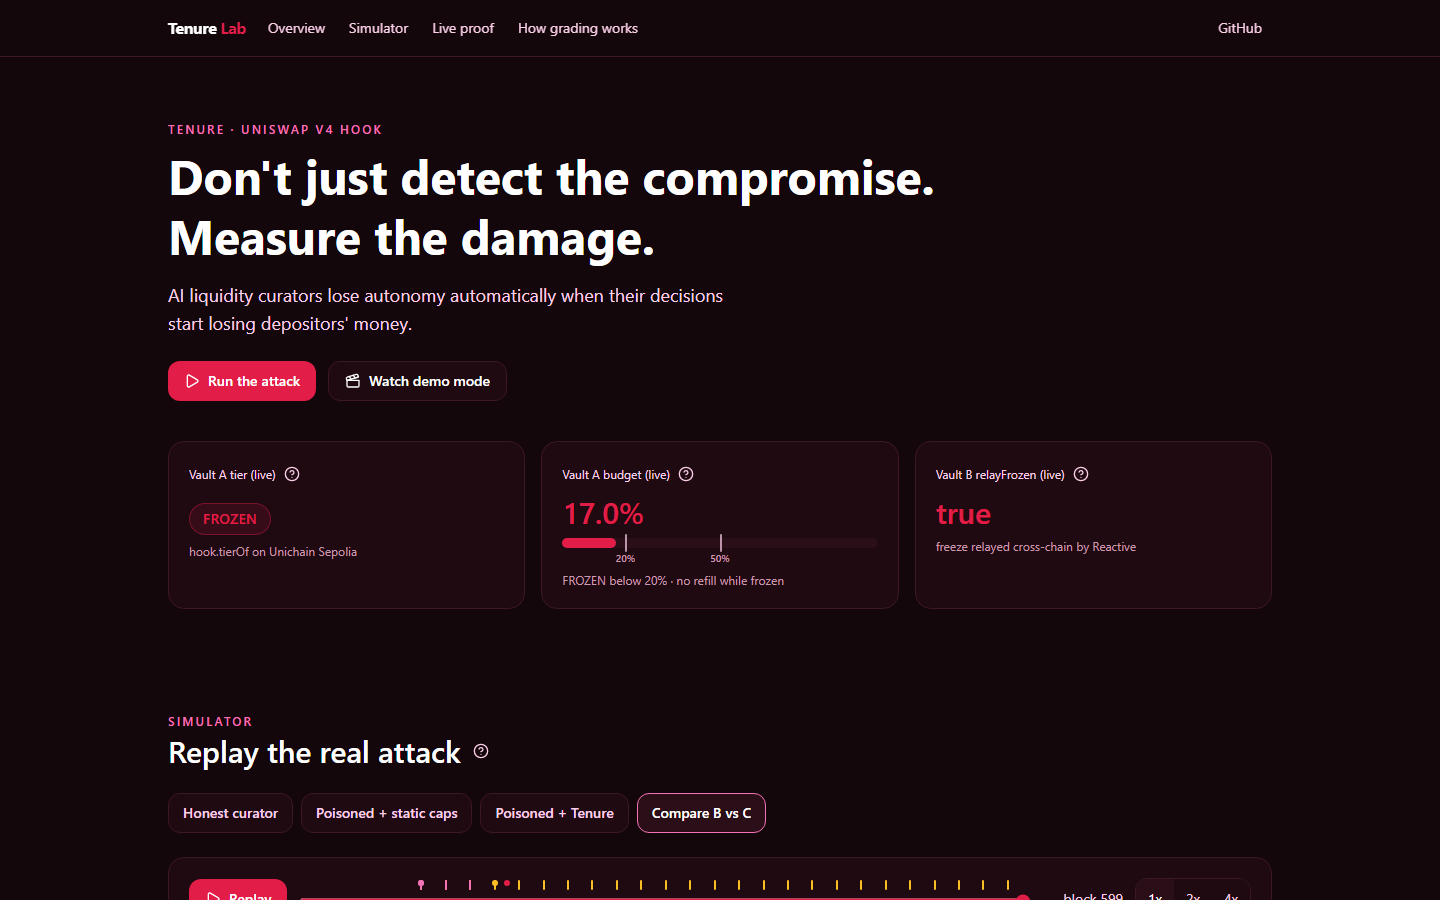
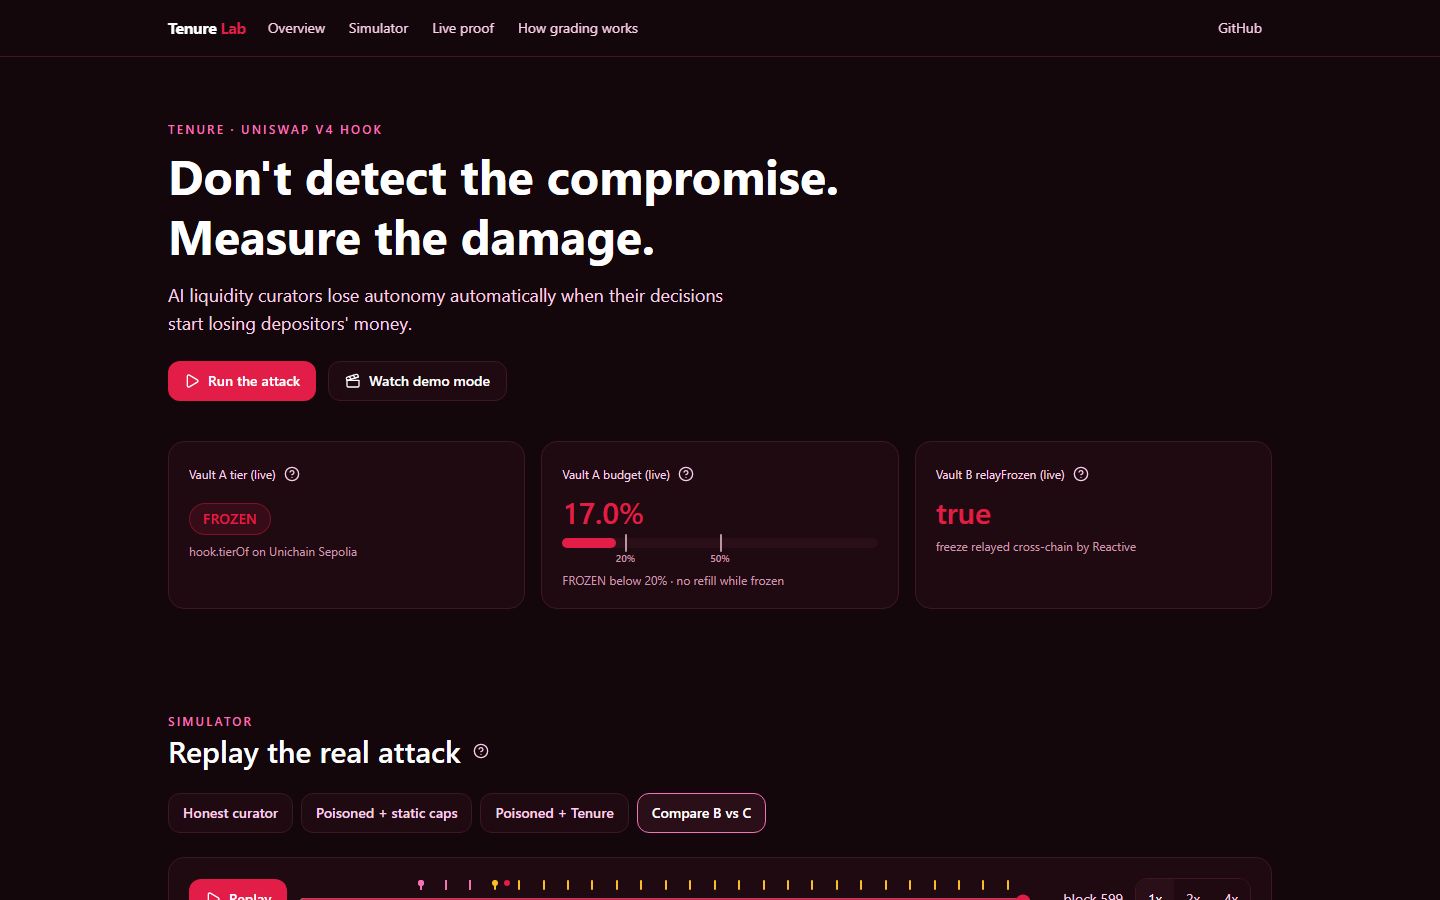
fix(frontend): headline back to "Don't detect the compromise. Measure the damage." (matches slide 3)
Hero and the demo's closing caption; overview screenshots regenerated.

Changed region(s): [[0.2188, 0.1556, 0.6562, 0.2178]]

diff --git a/frontend/src/sections/Hero.tsx b/frontend/src/sections/Hero.tsx
@@ -10,7 +10,7 @@ export default function Hero() {
     <section id="overview" aria-labelledby="overview-title" className="mx-auto max-w-6xl px-4 pb-12 pt-10 sm:px-6 sm:pt-16">
       <p className="text-xs font-semibold uppercase tracking-[0.18em] text-accent">Tenure · Uniswap v4 hook</p>
       <h1 id="overview-title" className="mt-2 max-w-3xl text-4xl font-bold leading-tight sm:text-5xl">
-        Don't just detect the compromise. Measure the damage.
+        Don't detect the compromise. Measure the damage.
       </h1>
       <p className="mt-4 max-w-xl text-lg text-soft">
         AI liquidity curators lose autonomy automatically when their decisions start losing depositors' money.

diff --git a/frontend/src/sections/demoScript.ts b/frontend/src/sections/demoScript.ts
@@ -38,7 +38,7 @@ export const DEMO_STEPS: DemoStep[] = [
     run: () => emit("live:scrollTo", { index: 7 }),
   },
   { target: "grading", ms: 9000, caption: "Grading: value leaked at the trade, then a markout against doing nothing." },
-  { target: "overview", ms: 5000, caption: "Don't just detect the compromise. Measure the damage." },
+  { target: "overview", ms: 5000, caption: "Don't detect the compromise. Measure the damage." },
 ];
 
 export const DEMO_TOTAL_MS = DEMO_STEPS.reduce((s, x) => s + x.ms, 0);
